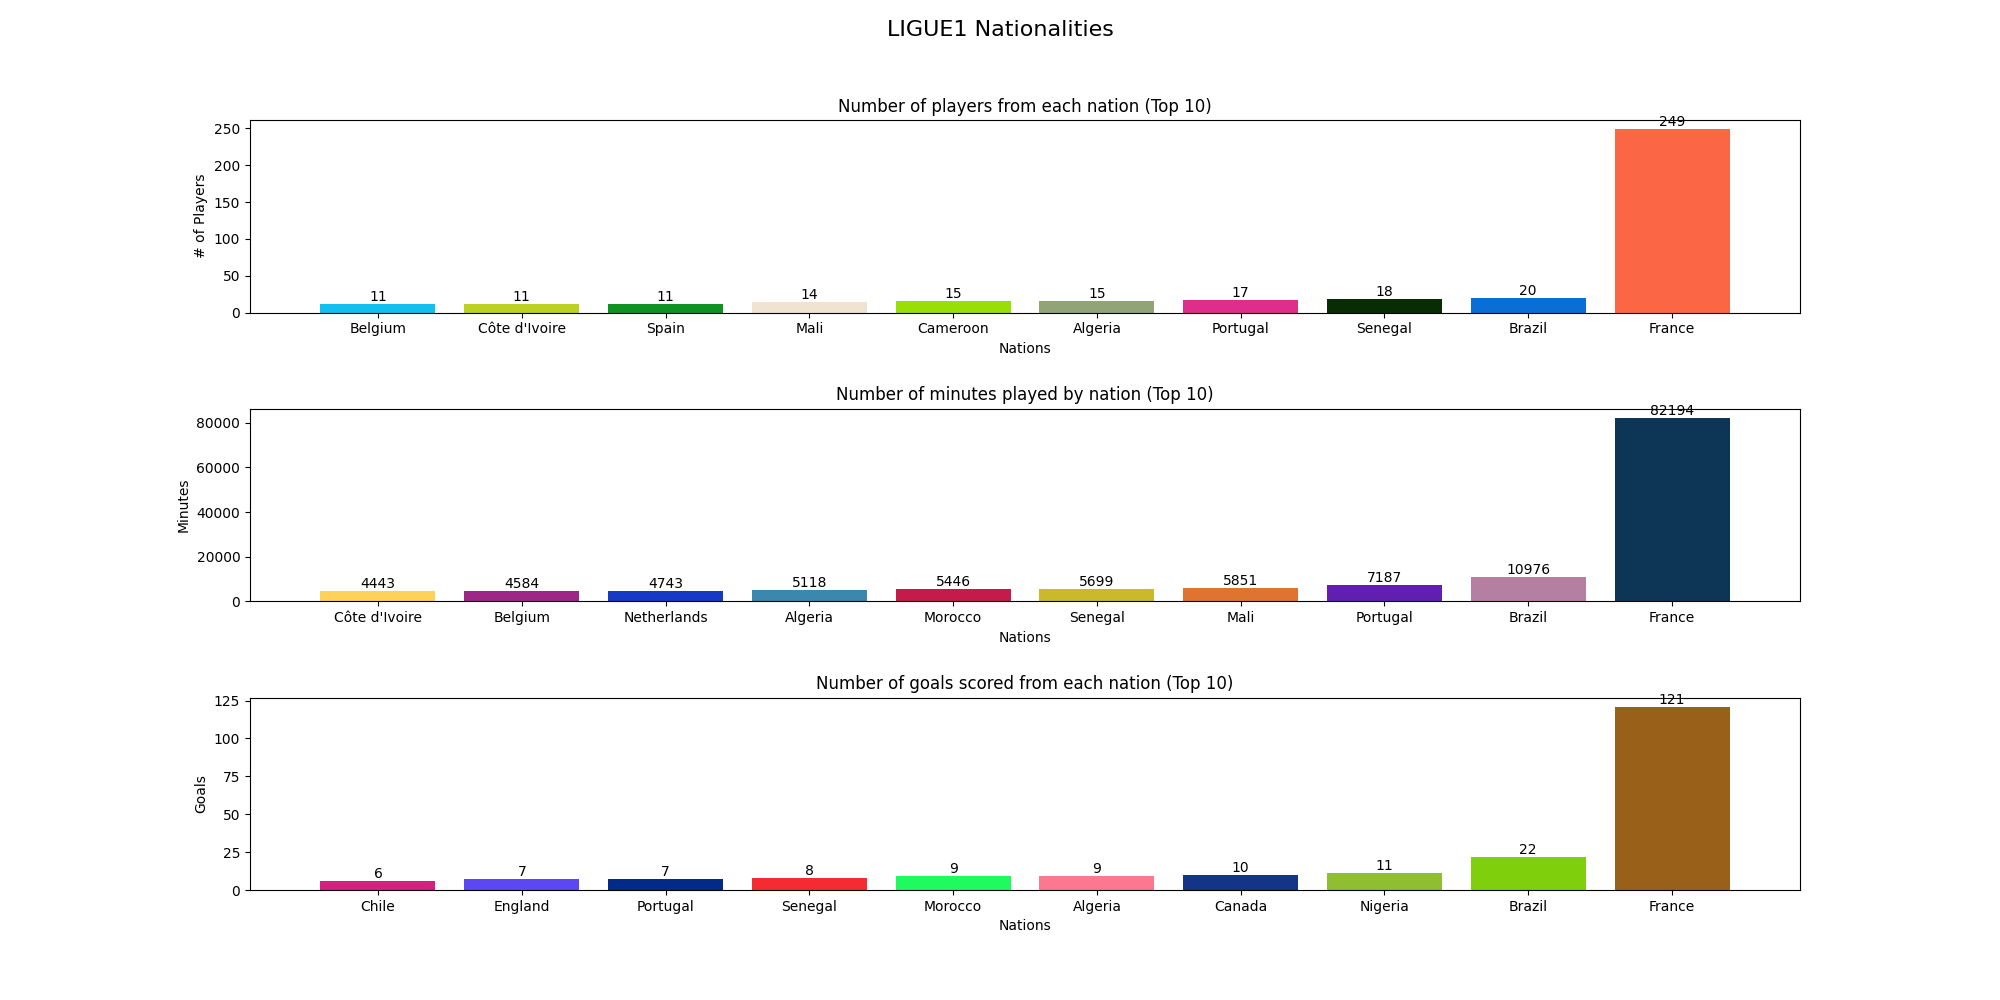
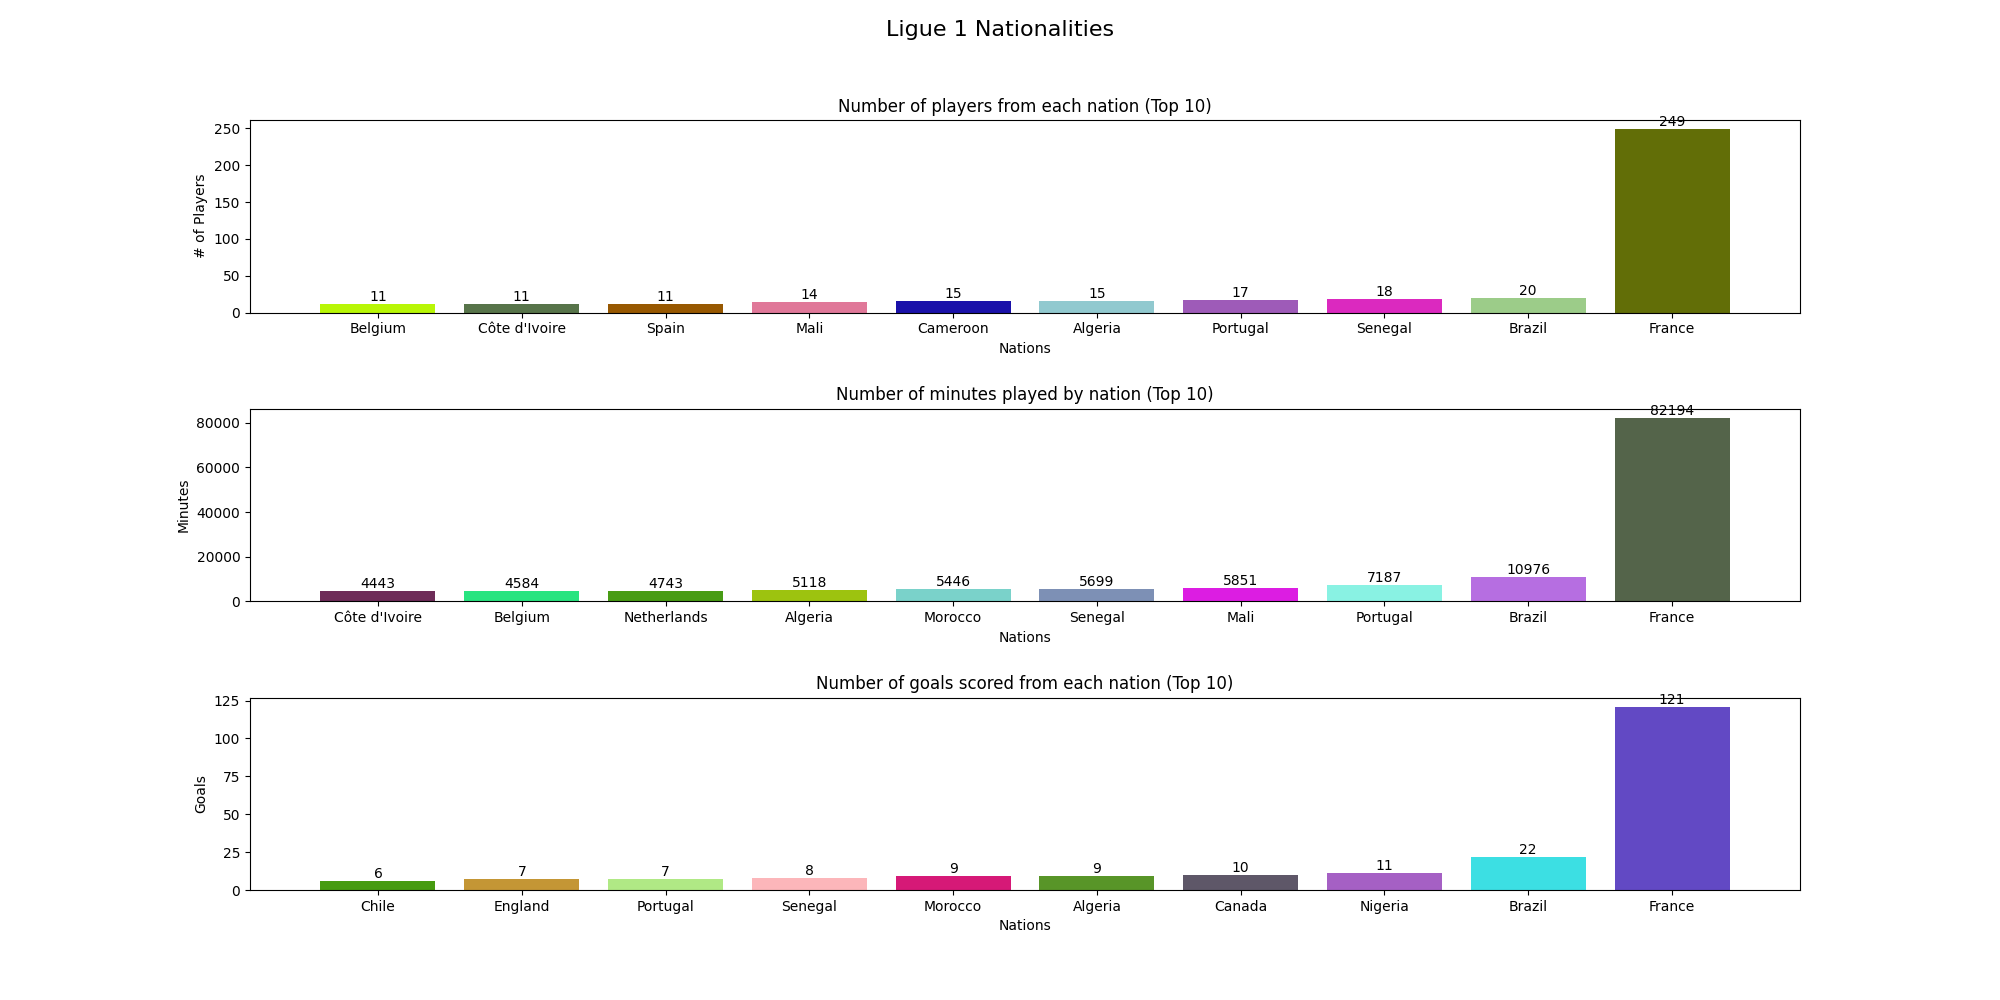
Fixed figure titles and order of running

diff --git a/nationalities.py b/nationalities.py
@@ -112,7 +112,19 @@ def nations_played(url, competition):
     fig = plt.figure(figsize=(20, 10))
     fig.subplots_adjust(hspace=0.5)
     gs = GridSpec(nrows=3, ncols=1)
-    fig.suptitle(f'{competition.upper()} Nationalities', fontsize=16)
+    if competition == 'epl':
+        comp_title = 'Premier League'
+    if competition == 'laliga':
+        comp_title = 'La Liga'
+    if competition == 'bundesliga':
+        comp_title = 'Bundesliga'
+    if competition == 'seriea':
+        comp_title = 'Serie A'
+    if competition == 'ligue1':
+        comp_title = 'Ligue 1'
+    if competition == 'ucl':
+        comp_title = 'Uefa Champions League'
+    fig.suptitle(f'{comp_title} Nationalities', fontsize=16)
     
     ax0 = fig.add_subplot(gs[0, 0])
     bars = ax0.bar(df_players["Nation"], df_players["# Players"], color=random_colour())
@@ -158,18 +170,18 @@ def nations_played(url, competition):
 
 def main():
     pl_url = 'https://fbref.com/en/comps/9/nations/Premier-League-Nationalities'
-    nations_played(pl_url, 'epl')
-    cl_url = 'https://fbref.com/en/comps/8/nations/Champions-League-Nationalities'
-    nations_played(cl_url, 'ucl')
-    french_url = 'https://fbref.com/en/comps/13/nations/Ligue-1-Nationalities'
-    nations_played(french_url, 'ligue1')
-    bundesliga_url = 'https://fbref.com/en/comps/20/nations/Bundesliga-Nationalities'
-    nations_played(bundesliga_url, 'bundesliga')
-    italy_url = 'https://fbref.com/en/comps/11/nations/Serie-A-Nationalities'
-    nations_played(italy_url, 'seriea')
     liga_url = 'https://fbref.com/en/comps/12/nations/La-Liga-Nationalities'
+    bundesliga_url = 'https://fbref.com/en/comps/20/nations/Bundesliga-Nationalities'
+    italy_url = 'https://fbref.com/en/comps/11/nations/Serie-A-Nationalities'
+    french_url = 'https://fbref.com/en/comps/13/nations/Ligue-1-Nationalities'
+    cl_url = 'https://fbref.com/en/comps/8/nations/Champions-League-Nationalities'
+    
+    nations_played(pl_url, 'epl')
     nations_played(liga_url, 'laliga')
-
+    nations_played(french_url, 'ligue1')
+    nations_played(bundesliga_url, 'bundesliga')
+    nations_played(italy_url, 'seriea')
+    nations_played(cl_url, 'ucl')
 
 
 main()
